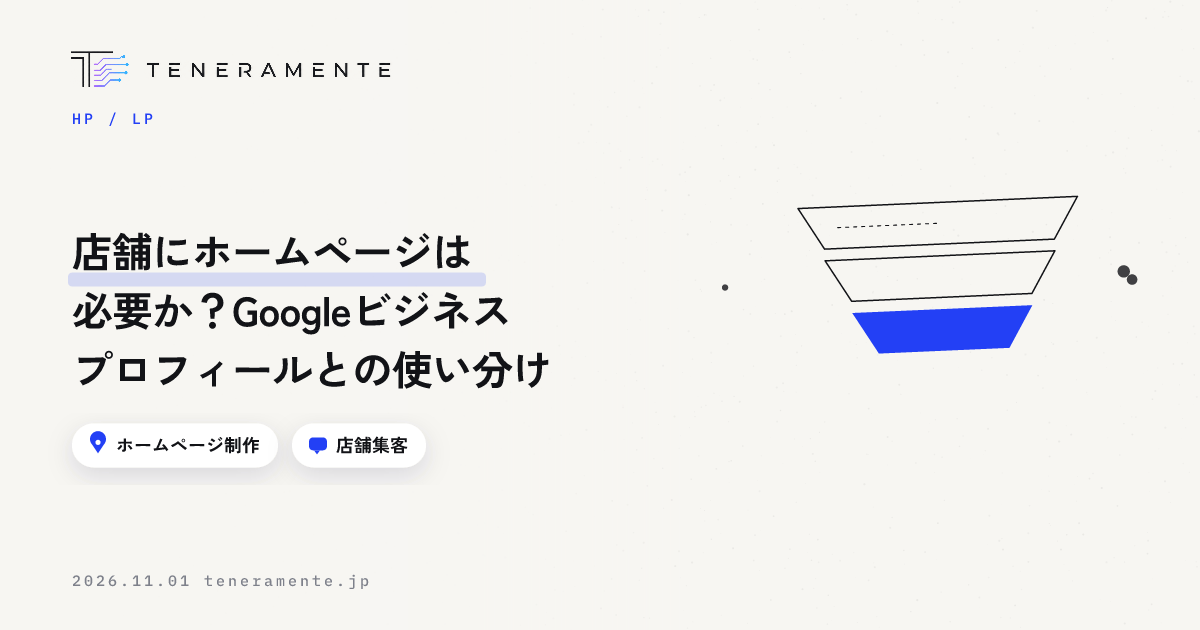
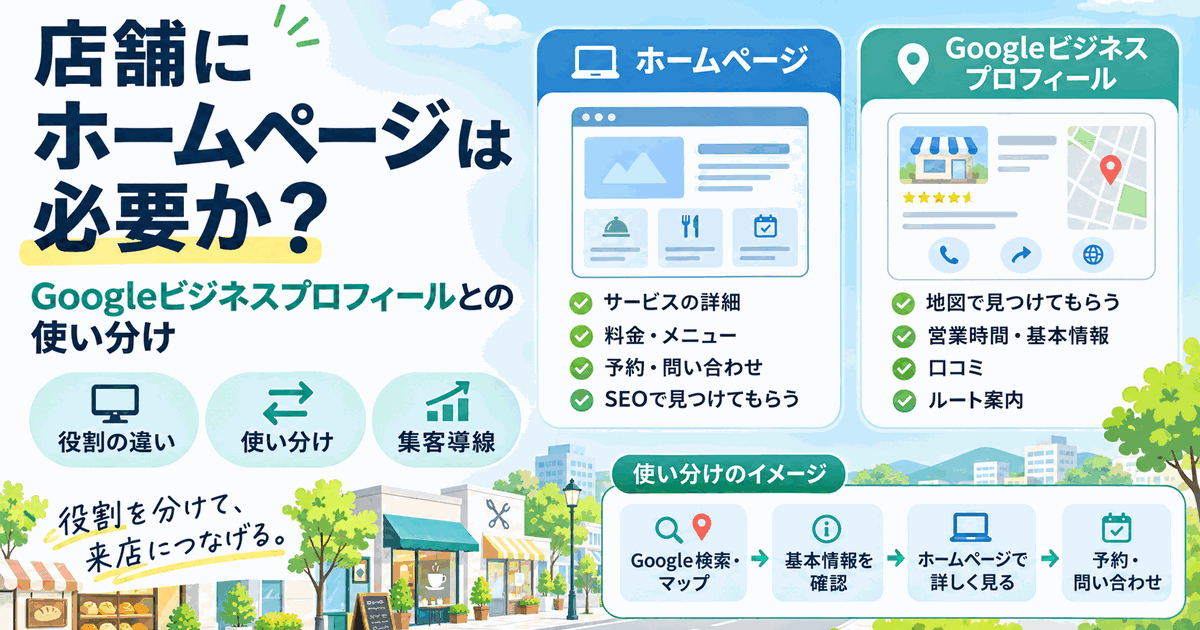
covers: 記事のトップ画像を ChatGPT の画像に差し替え（k104・m106）

diff --git a/mieroom/blog.html b/mieroom/blog.html
@@ -166,7 +166,7 @@ src="https://www.facebook.com/tr?id=28086413637650888&ev=PageView&noscript=1"
     <div class="blog-grid stagger" id="grid">
 <!-- MILPAGE:START ミルページで書いた記事。ここは自動生成なので直接編集しないでください -->
       <a class="bpost" data-cat="集客・広告" data-text="反響からの来店率を上げる方法｜初回返信から予約確定までの型 反響管理 来店率 初回返信 来店予約 賃貸仲介" href="articles/hankyo-raiten-ritsu-ageru.html">
-        <div class="bcover bcover--img"><img src="assets/covers/hankyo-raiten-ritsu-ageru.png" alt="反響からの来店率を上げる方法｜初回返信から予約確定までの型" loading="lazy" decoding="async" width="640" height="360"></div>
+        <div class="bcover bcover--img"><img src="assets/covers/hankyo-raiten-ritsu-ageru-card.webp" alt="反響からの来店率を上げる方法｜初回返信から予約確定までの型" loading="lazy" decoding="async" width="640" height="360"></div>
         <div class="bbody">
           <div class="bmeta"><span class="bcat">集客・広告</span><span class="bdate">2026.11.01</span></div>
           <h3>反響からの来店率を上げる方法｜初回返信から予約確定までの型</h3>

diff --git a/mieroom/articles/hankyo-raiten-ritsu-ageru.html b/mieroom/articles/hankyo-raiten-ritsu-ageru.html
@@ -74,7 +74,7 @@
   </div>
 </section>
 <div class="post-cover">
-  <div class="band band--img"><img src="../assets/covers/hankyo-raiten-ritsu-ageru.png" alt="反響からの来店率を上げる方法｜初回返信から予約確定までの型" width="1200" height="675" decoding="async"></div>
+  <div class="band band--img"><img src="../assets/covers/hankyo-raiten-ritsu-ageru.webp" alt="反響からの来店率を上げる方法｜初回返信から予約確定までの型" width="1200" height="675" decoding="async"></div>
 </div>
 <div class="post-body">
 <p>ポータルからの反響は毎日入っているのに、来店の予約が埋まらない。広告費を増やす話になる前に、見ておきたい場所があります。<strong>反響からの来店率を左右するのは反響の数ではなく、初回返信の中身と、その返信で次の約束まで置けているか</strong>です。この記事では、反響を受け取ってから来店の予約が確定するまでを型にして整理します。</p>

diff --git a/blog.html b/blog.html
@@ -143,7 +143,7 @@ src="https://www.facebook.com/tr?id=28086413637650888&ev=PageView&noscript=1"
   <div class="wrap">
     <div class="articles-grid" data-articles><!--STATIC-CARDS-->
       <a class="article-card reveal" href="2026-11-01-tenpo-homepage-hitsuyo-ka.html" data-cat="hp">
-        <div class="visual"><img src="assets/img/covers/2026-11-01-tenpo-homepage-hitsuyo-ka.png" alt="" width="640" height="336" loading="lazy" decoding="async" style="position:absolute;inset:0;width:100%;height:100%;object-fit:cover;"></div>
+        <div class="visual"><img src="assets/img/covers/2026-11-01-tenpo-homepage-hitsuyo-ka-card.webp" alt="" width="640" height="336" loading="lazy" decoding="async" style="position:absolute;inset:0;width:100%;height:100%;object-fit:cover;"></div>
         <div class="meta-row">
           <span class="cat">HP / LP</span>
           <span class="dot"></span>

diff --git a/2026-11-01-tenpo-homepage-hitsuyo-ka.html b/2026-11-01-tenpo-homepage-hitsuyo-ka.html
@@ -179,7 +179,7 @@ src="https://www.facebook.com/tr?id=28086413637650888&ev=PageView&noscript=1"
 </section>
 
 <div class="post-cover">
-  <div class="post-cover-inner"><img src="assets/img/covers/2026-11-01-tenpo-homepage-hitsuyo-ka.png" alt="店舗にホームページは必要か？Googleビジネスプロフィールとの使い分け" width="1200" height="630" fetchpriority="high" decoding="async" style="position:absolute;inset:0;width:100%;height:100%;object-fit:cover;"></div>
+  <div class="post-cover-inner"><img src="assets/img/covers/2026-11-01-tenpo-homepage-hitsuyo-ka.webp" alt="店舗にホームページは必要か？Googleビジネスプロフィールとの使い分け" width="1200" height="630" fetchpriority="high" decoding="async" style="position:absolute;inset:0;width:100%;height:100%;object-fit:cover;"></div>
 </div>
 
 <div class="post-wrap">
